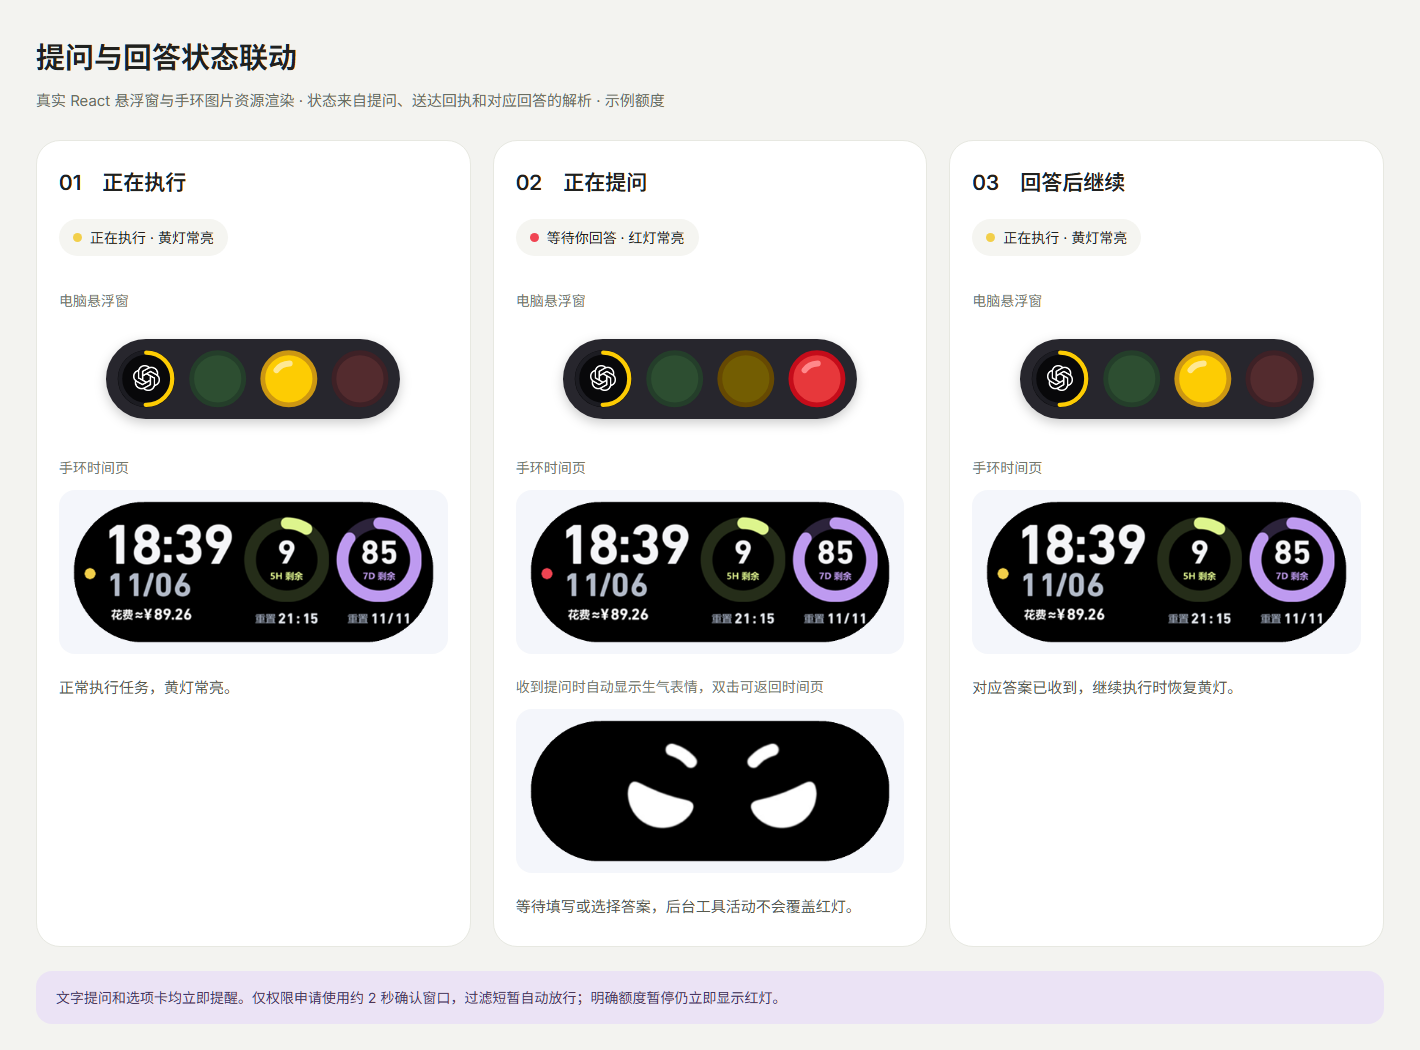
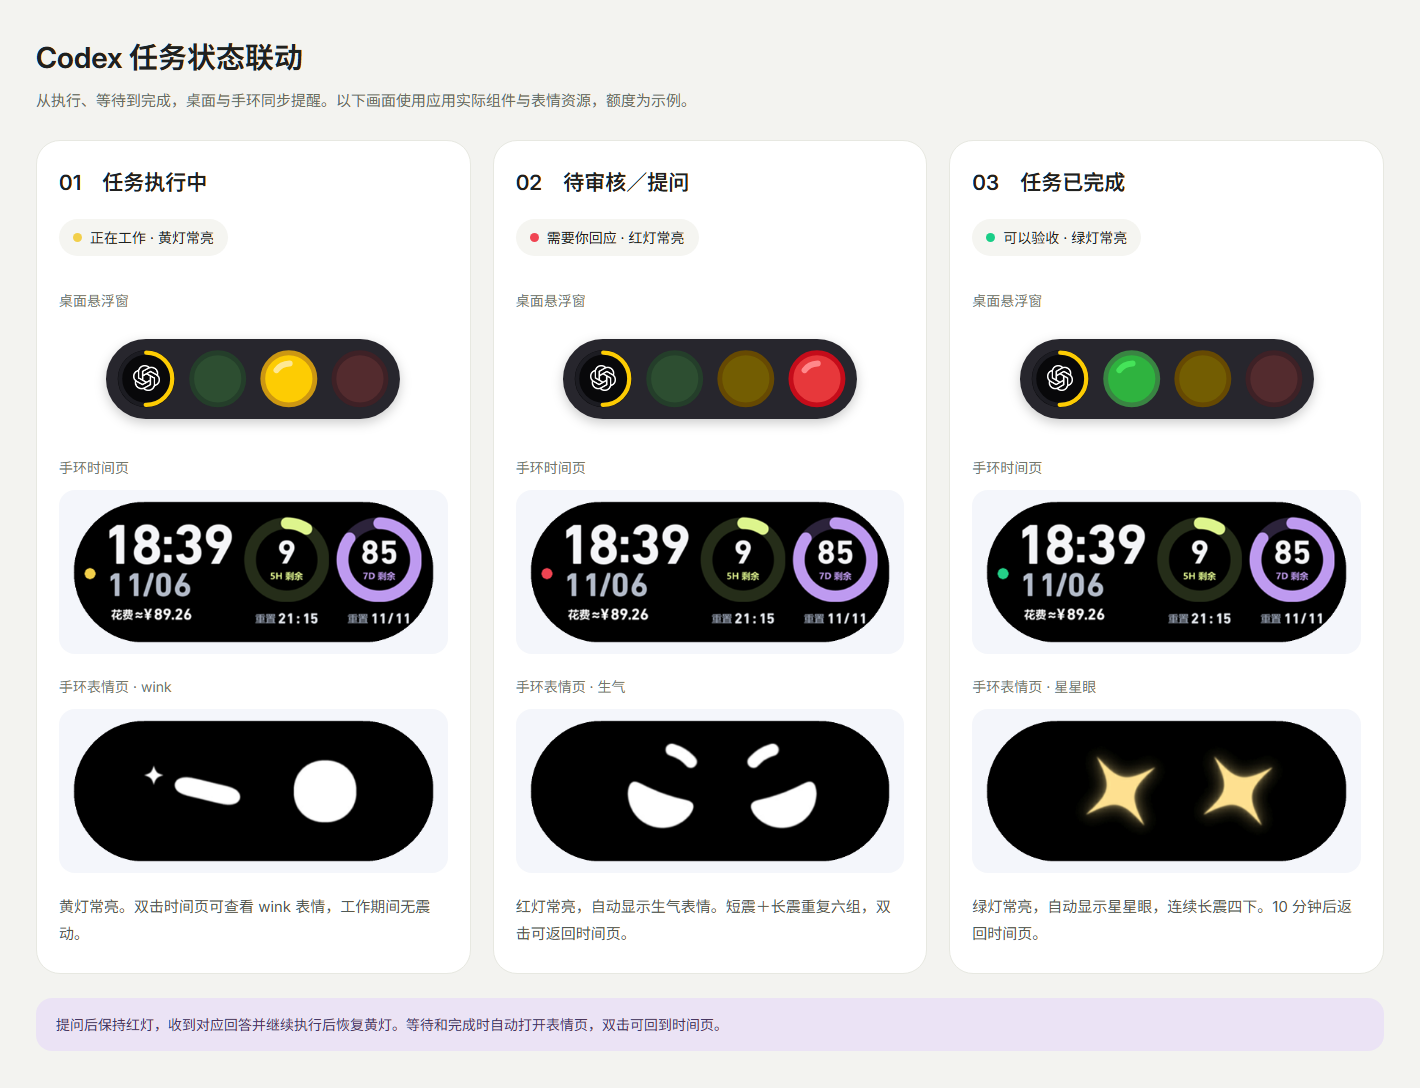
docs: show working waiting and completed task previews

diff --git a/README.md b/README.md
@@ -29,7 +29,7 @@
 
 提问后保持红灯，收到对应回答才恢复黄灯。多个任务优先显示等待处理，其次是执行中、最近完成和空闲。
 
-![任务执行、提问与回答后的状态联动示例](docs/images/task-states.png)
+![任务执行中、待审核或提问、任务已完成的桌面悬浮窗与手环画面](docs/images/task-states.png)
 
 ## 界面预览
 
